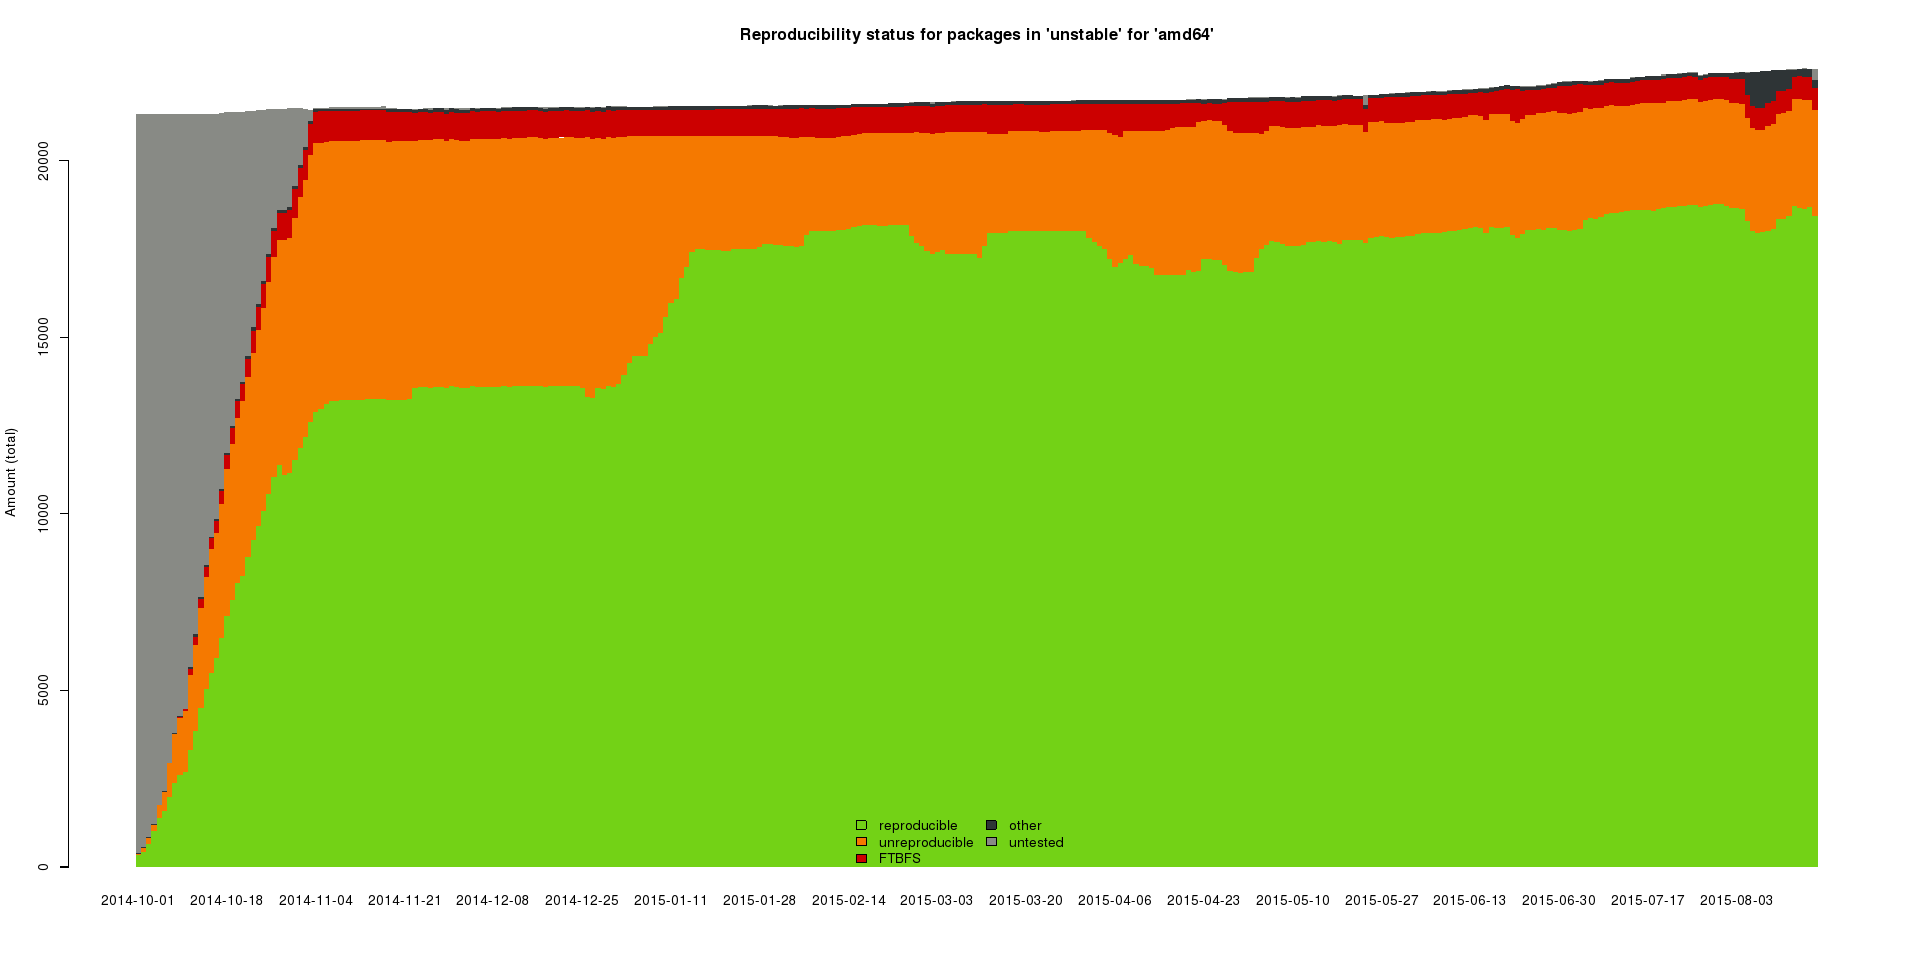
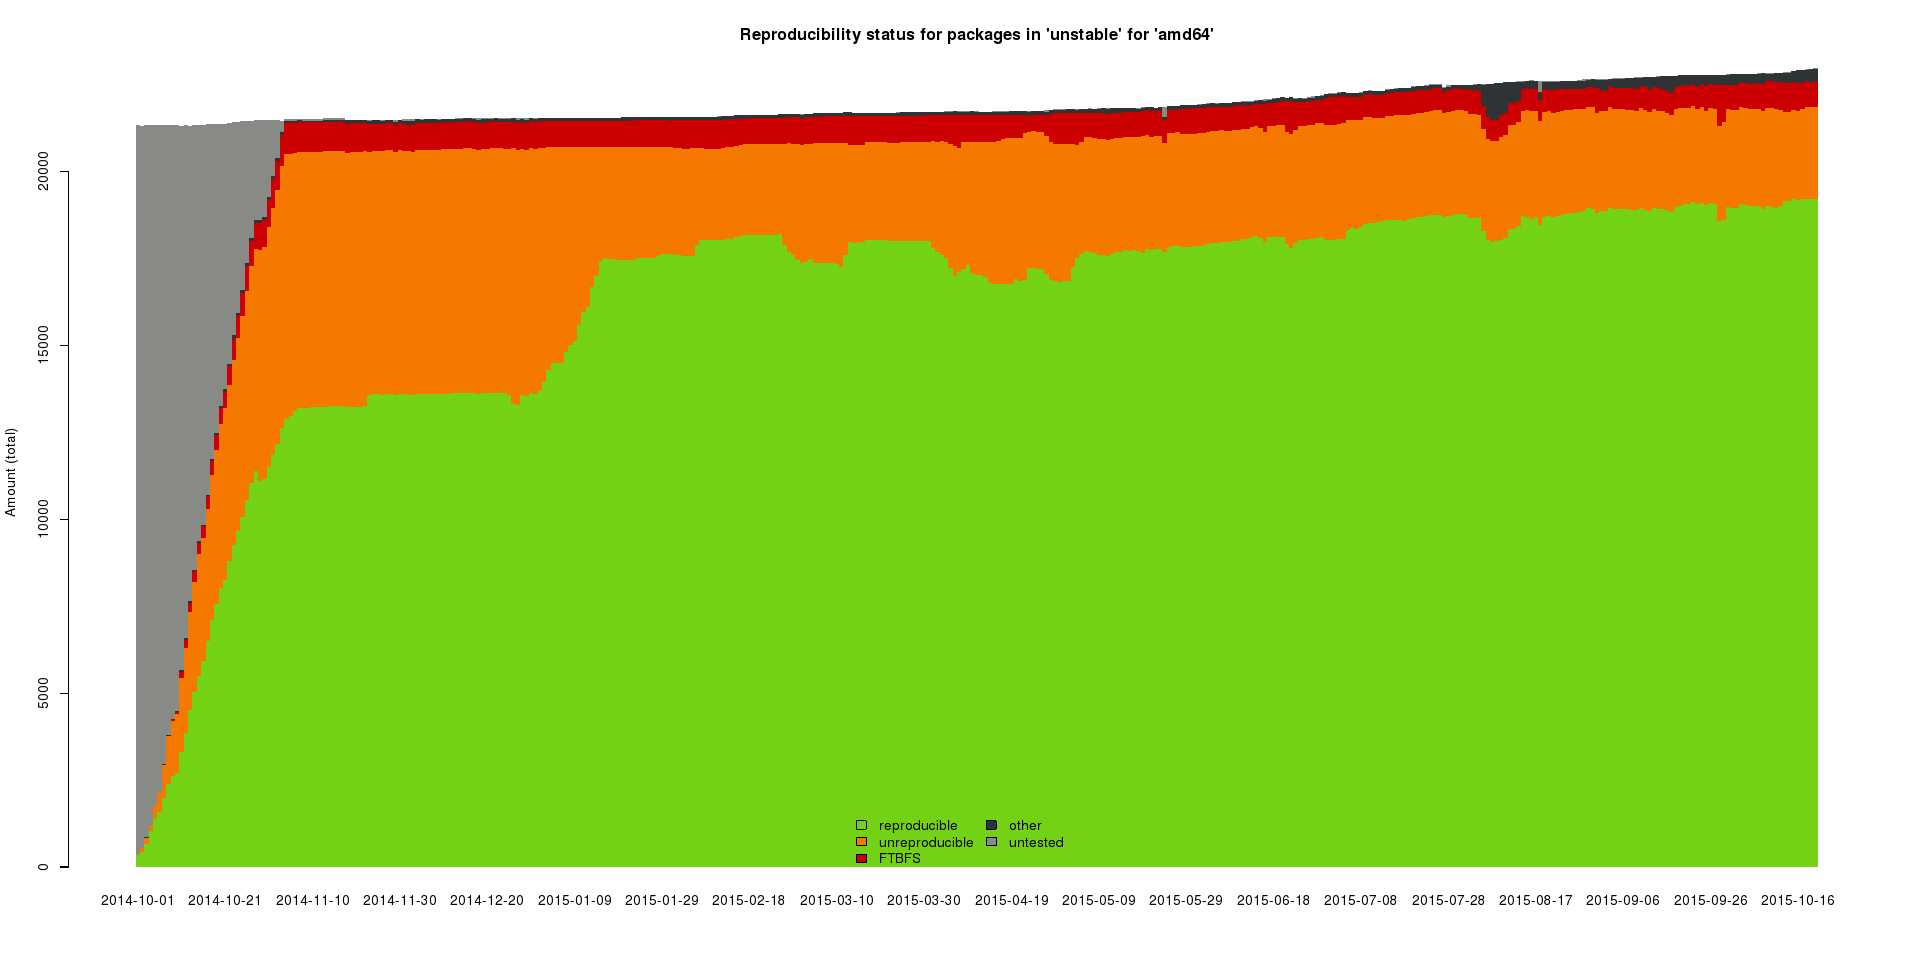
update pkg and bug graphs

diff --git a/2015-10-22-CongresoSeguridad/2015-10-22-CongresoSeguridad.tex b/2015-10-22-CongresoSeguridad/2015-10-22-CongresoSeguridad.tex
@@ -688,7 +688,7 @@ hour, minute & \multicolumn{2}{l}{hour is usually the same… usually, the minut
 \begin{frame}[plain]
  \begin{tikzpicture}[remember picture,overlay]
   \node[at=(current page.center)] {
-    \includegraphics[width=\paperwidth]{images/bug_chart.pdf}
+    \includegraphics[width=\paperwidth]{images/stats_bugs.png}
   };
  \end{tikzpicture}
 \end{frame}
